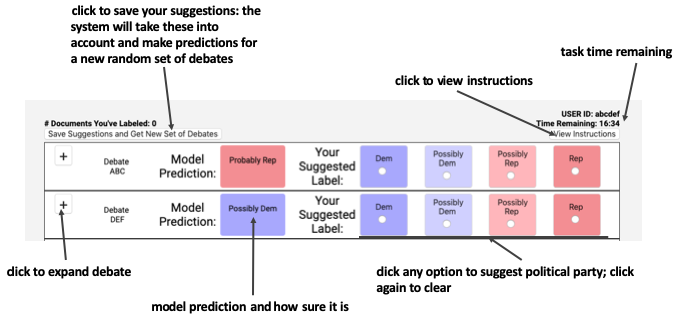
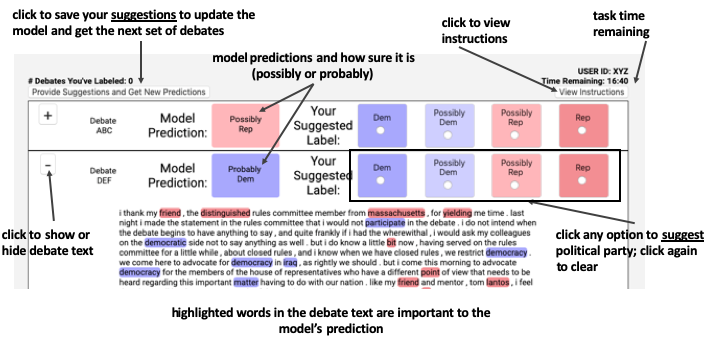
updated instructions and screenshots

diff --git a/index2.html b/index2.html
@@ -207,8 +207,8 @@
             <h2>
               <span v-if="!finishedSurvey">Welcome</span>
               <span v-if="!timeWarning && finishedSurvey && firstPage && !finished && !refreshed">Task Overview</span>
-              <span v-if="!timeWarning && finishedSurvey && secondPage && !finished && !refreshed">System Overview</span>
-              <span v-if="!timeWarning && finishedSurvey && !firstPage && !secondPage && !finished && !refreshed">Tool Instructions</span> <!--for the debate labeling task-->
+              <span v-if="!timeWarning && finishedSurvey && secondPage && !finished && !refreshed">Instructions</span>
+              <span v-if="!timeWarning && finishedSurvey && !firstPage && !secondPage && !finished && !refreshed">How Does the Model Learn from Your Labels?</span> <!--for the debate labeling task-->
               <span v-if="finished">Post-Task Survey</span>
               <span v-if="timeWarning">Time is almost up!</span>
             </h2>
@@ -227,7 +227,7 @@
             <span v-if="refreshed && !finished">
               The system has:
               <ol>
-                <li v-if="inputProvided"><span class="bold">updated the model by {{perceivedControl ? 'replacing previously learned information about those debates with the labels you assigned' : 'taking your suggested labels into account with previously learned information about those debates'}}</li>
+                <li v-if="inputProvided"><span class="bold">updated the model by {{perceivedControl ? 'replacing previously learned democrat and republican words from those debates with the labels you assigned' : 'taking your suggested labels into account with previously learned democrat and republican words from those debates'}}</li>
                 <li>labeled ten new randomly chosen debates using the updated model</li>
               </ol>
             </span>
@@ -250,55 +250,56 @@
             <!-- INSTRUCTIONS (2 OF 4) MODAL -->
             <span v-if="!timeWarning && firstPage && finishedSurvey && !finished && !refreshed">
               <div>
-                This is a political party prediction system for predicting if a speaker is a republican or democrat. The system is "in-training": it was first trained with a small set of debates for which the true political party is known. From these labeled debates, the system learned an initial model to distinguish republican and democrat speakers based on the words they use and the topics they discuss.
+                Imagine you have been given a large set of congressional debate speeches and are asked to <span class="bold">determine the political party of the speakers for as many of the speeches as possible</span>. There are too many speeches for you to do this without help, so for this task, you will have access to a political party prediction system that predicts if a speaker is a republican or democrat.
               </div>
               </br>
               </br>
               <div>
-                In this task, <span class="bold">you and the system will predict the political party of the speakers for a large set of debate speeches</span>. There are too many speeches for you to do this without the help of the system. But, the system has only been trained on a small set of debates, so it needs your help to train an improved model to better distinguish between republican and democrat speakers.
+                The system is "in-training": it was previously given a small set of debate speeches with labels describing whether the speakers are republicans or democrats. From these labeled debates, the system learned an initial model to distinguish republican and democrat speakers based on the words they use and the topics they discuss. However, the initial model is not perfect and sometimes makes mistakes. You will help improve the model by labeling additional speeches as republican or democrat. <span class="bold">You will be given up to a $5 bonus based on the quality of the final, updated model</span>.
               </div>
             </span>
             <!-- INSTRUCTIONS (3 OF 4) MODAL -->
             <span v-if="!timeWarning && secondPage && finishedSurvey && !finished && !refreshed">
               <div>
-                For each speech, the system will predict the party affiliation of the speaker and highlight the words within the speech that are most important for that prediction. You will help train the model to make better predictions by <span class="bold">{{ perceivedControl ? 'assigning' : 'suggesting' }} labels for any of the debate speeches with what you think is the correct party affiliation</span>.
+                <div class="image-holder"><img class="modal-image" :src="getScreenshotUrl()" /></div>
+                During the task,
+                <ul>
+                  <li>The system will predict whether the speaker is republican or democrat for ten debate speeches at a time, chosen at random from the large set. For each speech,
+                  <ul>
+                    <li>The system gives the prediction and how sure it is.</li>
+                    <li>Click the + button next to the speech to view text.</li>
+                    <li>The highlighted words are most important for the model's prediction.</li>
+                  </ul>
+                </li>
+                <li>You can {{ perceivedControl ? 'assign' : 'suggest' }} labels for any of these speeches with whether you think the speaker is republican or democrat by clicking the radio buttons. Click again to clear the label.</li>
+                <li>At any point, click the “Provide Labels and Get New Predictions” button.
+                  <ul>
+                    <li>The system {{ perceivedControl ? 'adheres to' : 'considers'}} your labels to improve the model.</li>
+                    <li>The system uses the updated model to predict the political party for ten new debates randomly chosen from the large set.</li>
+                  </ul>
+                </li>
+                <li>Hint: you do not need to wait until you've labeled all ten debates to provide your labels to the model and move on to the next ten of debates.</li>
+                <li>Repeat this process until the 20 minute timer is up.</li>
+              </ul>
+              </div>
+              <div>
+                When time is up, the final version of the model will predict the labels for the entire set of debate speeches. You will receive up to a <span class="bold">$5 bonus for how many speeches are correctly labeled by the final model.</span>
+              </div>
+            </span>
+            <!-- Instructions (4 OF 4) MODAL: HOW DOES MODEL LEARN FROM YOUR LABELS -->
+            <span v-if="!timeWarning && !secondPage && !firstPage && finishedSurvey && !finished && !refreshed">
+              <div>
+                Remember, the model used a small set of labeled debate speeches to learn a model to distinguish republican and democrat speakers based on the words they use and the topics they discuss. .
               </div>
               </br>
               </br>
               <div>
-                The picture below shows the range of how your labels <span class="italic">could</span> be incorporated to train a model, from overriding all previously learned information (left) to being ignored completely (right). <span class="bold">In this task, the system incorporates your labels by updating the model to {{ perceivedControl ? "replace the previously learned information about those debates with the labels you assign" : 'take the labels you suggest into account with previously learned information about those debates' }}.</span>
+                The picture below shows the range of how your labels <span class="italic">could</span> be used to improve the model, from overriding all previously learned words and topics (left) to being ignored completely (right). <span class="bold">In this task, the system incorporates your labels by updating the model to {{ perceivedControl ? "replace the previously learned republican and democratic words in those debates with the political party labels you assign" : 'take the political party labels you suggest into account with previously learned republican and democrat words in those debates' }}.</span>
               </div>
               </br>
               <div class="image-holder"><img class="modal-image" :src="getSliderUrl()" /></div>
               </br>
-              <div>You will have <span class="bold">20 minutes</span> to provide your input and train a better model. When the time is up, the system will predict the label of all the speeches using the final model. You will be given up to a <span class="bold">$5 bonus for how many of the speeches are correctly labeled</span>.
-              </div>
-            </span>
-            <!-- INSTRUCTIONS (4 OF 4) MODAL -->
-            <span v-if="!timeWarning && !secondPage && !firstPage && finishedSurvey && !finished && !refreshed">
-              <div>
-                <ul>
-                  <li>To begin, the system predicts the political party affiliation for ten randomly chosen debate speeches. For each speech:
-                  <ul>
-                    <li>The tool shows the prediction and how sure it is.</li>
-                    <li>Click the + button next to the speech to view text.</li>
-                    <li>The highlighted words are most important for the model's prediction.</li>
-                    <li>Click the radio buttons to {{ perceivedControl ? 'assign' : 'suggest' }} the political party label for the speaker. Click again to clear the label.</li>
-                  </ul>
-                </li>
-                <li>Click "Provide Labels and Get New Predictions"
-                at any point to save your {{ perceivedControl ? 'assignments' : 'suggestions' }} to the system, which it {{ perceivedControl ? 'adheres to' : 'considers'}} to update the model and then predicts the party affiliation for the next random set of debates.</li>
-              </ul>
-              </div>
-              <div class="image-holder"><img class="modal-image" :src="getScreenshotUrl()" /></div>
-              <div>
-                <ul>
-                  <li>Remember, the goal is for you and the system to correctly label the political party of the speaker for as many debate speeches as possible.</li>
-                  <li>As there isn't enough time to read and label them all yourself, you'll help train a model that distinguishes between republican and democrat speakers.</li>
-                  <li>After 20 minutes, the system will use the final version of the model to label the speeches.</li>
-                  <li>You will be given <span class="bold">up to a $5 bonus based on how many are correct.</span></li>
-                  <li>You can revisit these instructions at any time by clicking the “View Instructions" button.</li>
-                </ul>
+              <div>Remember, the goal is to work with the system to train a model that can accurately distinguish between republican and democrat speakers. You will have 20 minutes for this task. <span class="bold">Every time you click the “Provide Labels and Get New Predictions” button, the model will learn from your labels as described above and present the next set of ten randomly chosen speeches with the new predictions.</span> When time is up, the final, updated model will predict the labels for the entire set of debate speeches. You will receive up to a $5 bonus for how many of these speeches are correctly labeled by the final model. You can revisit these instructions at any time by clicking the “View Instructions” button.
               </div>
             </span>
           </div> <!-- Modal body -->
